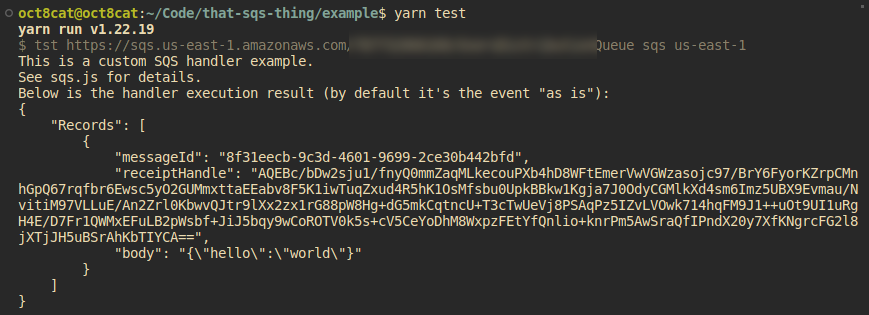
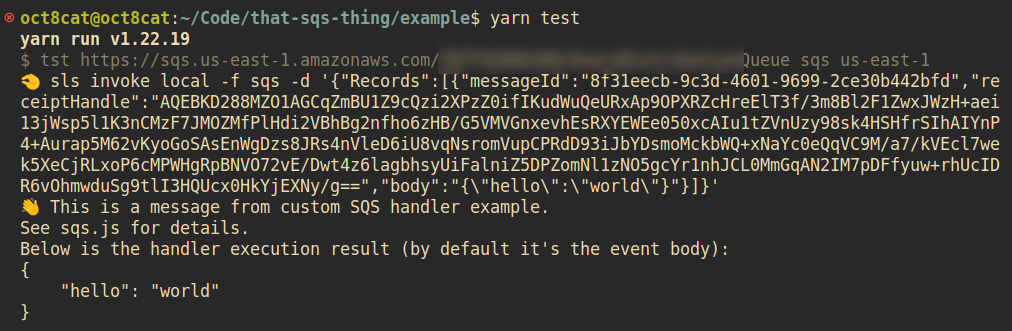
Update example

diff --git a/index.js b/index.js
@@ -2,33 +2,17 @@
 const { exec } = require("child_process");
 const { ReceiveMessageCommand, SQSClient } = require("@aws-sdk/client-sqs");
 
-/**
- * @param {SQSClient} client
- * @param {string} src
- * @returns {Promise<import("@aws-sdk/client-sqs").ReceiveMessageCommandOutput>}
- */
-const receive = (client, src) => {
-  return client.send(new ReceiveMessageCommand({ QueueUrl: src }));
+/** @type {(client: SQSClient, queueUrl: string) => Promise<import("@aws-sdk/client-sqs").ReceiveMessageCommandOutput>)} */
+const receive = (client, queueUrl) => {
+  return client.send(new ReceiveMessageCommand({ QueueUrl: queueUrl }));
 };
 
-/**
- * @param {string} fn
- * @param {import("@aws-sdk/client-sqs").ReceiveMessageCommandOutput} payload
- */
+/** @type {(fn: string, payload: import("@aws-sdk/client-sqs").ReceiveMessageCommandOutput) => Promise<string | undefined>} */
 const invoke = (fn, payload) => {
-  if (!payload.Messages || !payload.Messages.length) return;
-  /** @type {import("aws-lambda").SQSEvent} */
-  const event = {
-    Records: payload.Messages.map(
-      /** @returns {import("aws-lambda").SQSRecord} */
-      (message) => ({
-        messageId: message.MessageId,
-        receiptHandle: message.ReceiptHandle,
-        body: message.Body,
-      })
-    ),
-  };
+  const event = createEvent(payload.Messages);
+  if (!event.Records.length) return;
   const cmd = `sls invoke local -f ${fn} -d '${JSON.stringify(event)}'`;
+  console.log(`🤏 ${cmd}`);
   return new Promise((resolve, reject) => {
     exec(cmd, (err, stdout) => {
       if (err) return reject(err);
@@ -38,9 +22,22 @@ const invoke = (fn, payload) => {
   });
 };
 
+/** @type {(messages: import("@aws-sdk/client-sqs").Message[]) => import("aws-lambda").SQSEvent} */
+const createEvent = (messages = []) => ({
+  Records: messages.map(
+    /** @type {(message: import("@aws-sdk/client-sqs").Message) => import("aws-lambda").SQSRecord} */
+    (message) => ({
+      messageId: message.MessageId,
+      receiptHandle: message.ReceiptHandle,
+      body: message.Body,
+    })
+  ),
+});
+
 module.exports = {
   receive,
   invoke,
+  createEvent,
 };
 
 //
@@ -50,5 +47,5 @@ if (require.main === module) {
   const client = new SQSClient({ region });
   const poll = () => receive(client, queueUrl).then(invoke.bind(null, fn));
   poll();
-  setInterval(poll, 1000);
+  setInterval(poll, 5000);
 }

diff --git a/example/sqs.js b/example/sqs.js
@@ -1,9 +1,9 @@
 /** @type {import("aws-lambda").SQSHandler} */
 exports.handler = async function (event, context) {
   console.log(
-    "This is a custom SQS handler example.\n" +
+    "👋 This is a message from custom SQS handler example.\n" +
       "See sqs.js for details.\n" +
-      'Below is the handler execution result (by default it\'s the event "as is"):'
+      "Below is the handler execution result (by default it's the event body):"
   );
-  return event;
+  return JSON.parse(event.Records[0].body);
 };
